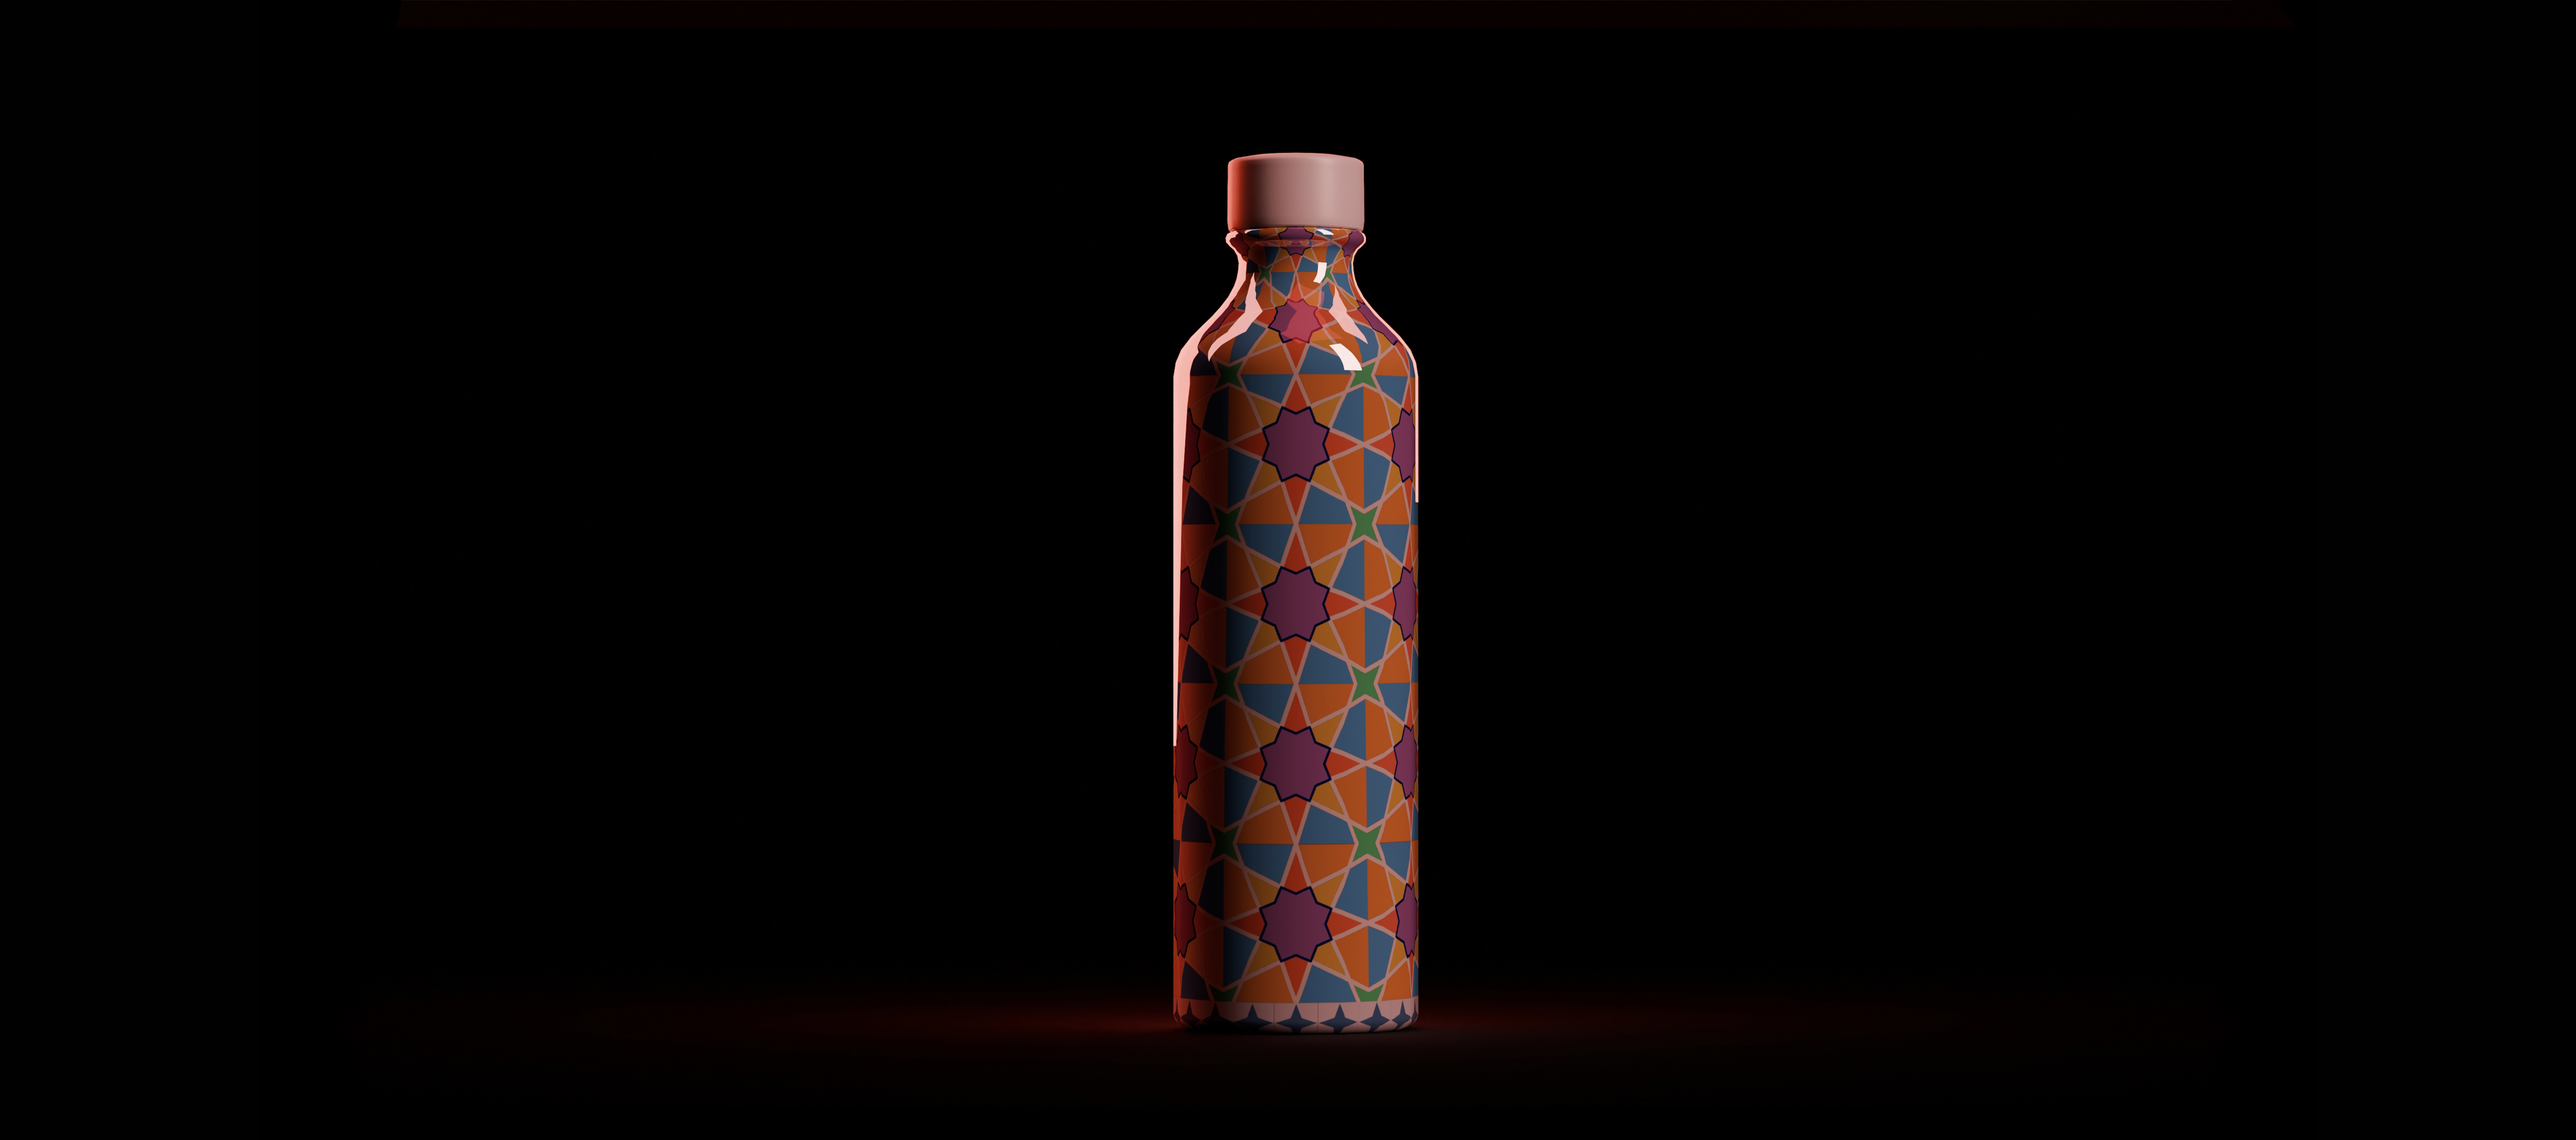
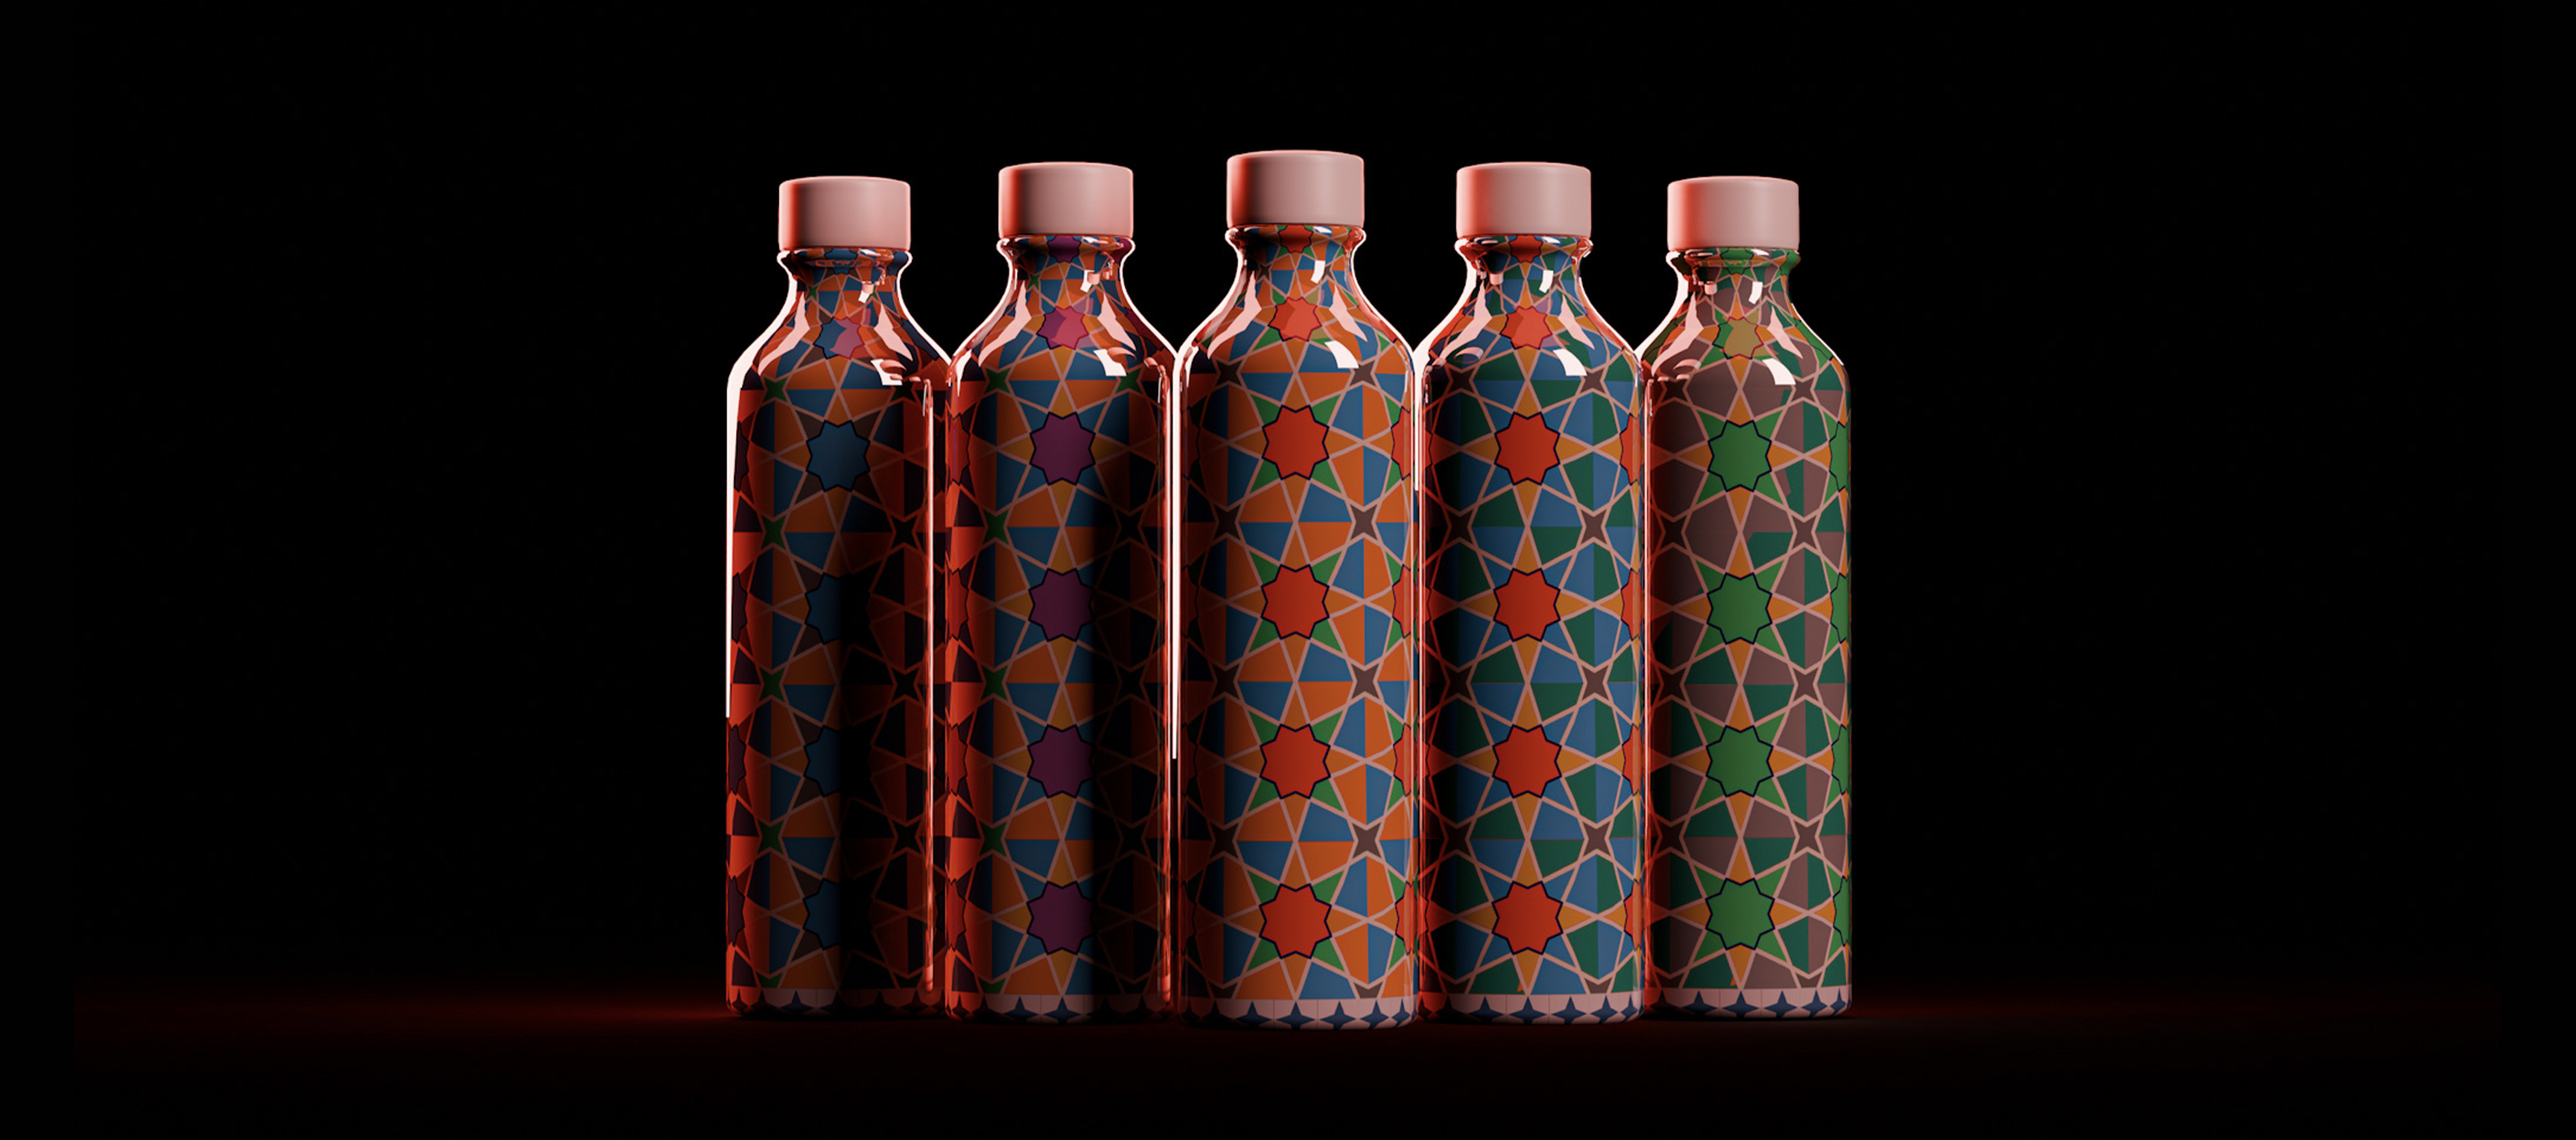
Update project files

Changed region(s): [[0.1872, 0.1236, 0.7486, 0.9267]]

diff --git a/about.html b/about.html
@@ -454,7 +454,7 @@ Terra is focused on preventing plastic pollution by creating products that drive
         Remove billions of kilograms of plastic from the environment through collective action.
       </div>
       <div class="fact-box" style="flex:0 0 auto; width:200px; height:200px; display:flex; align-items:center; justify-content:center; text-align:center;">
-        Fund the removal of over 11 kilograms of ocean-bound plastic with every product sold.
+        Fund the removal of over 11 kilograms of ocean-bound plastic with every 10 producs sold.
       </div>
       <div class="fact-box" style="flex:0 0 auto; width:200px; height:200px; display:flex; align-items:center; justify-content:center; text-align:center;">
         Support thousands of plastic collectors through community-based programs.
